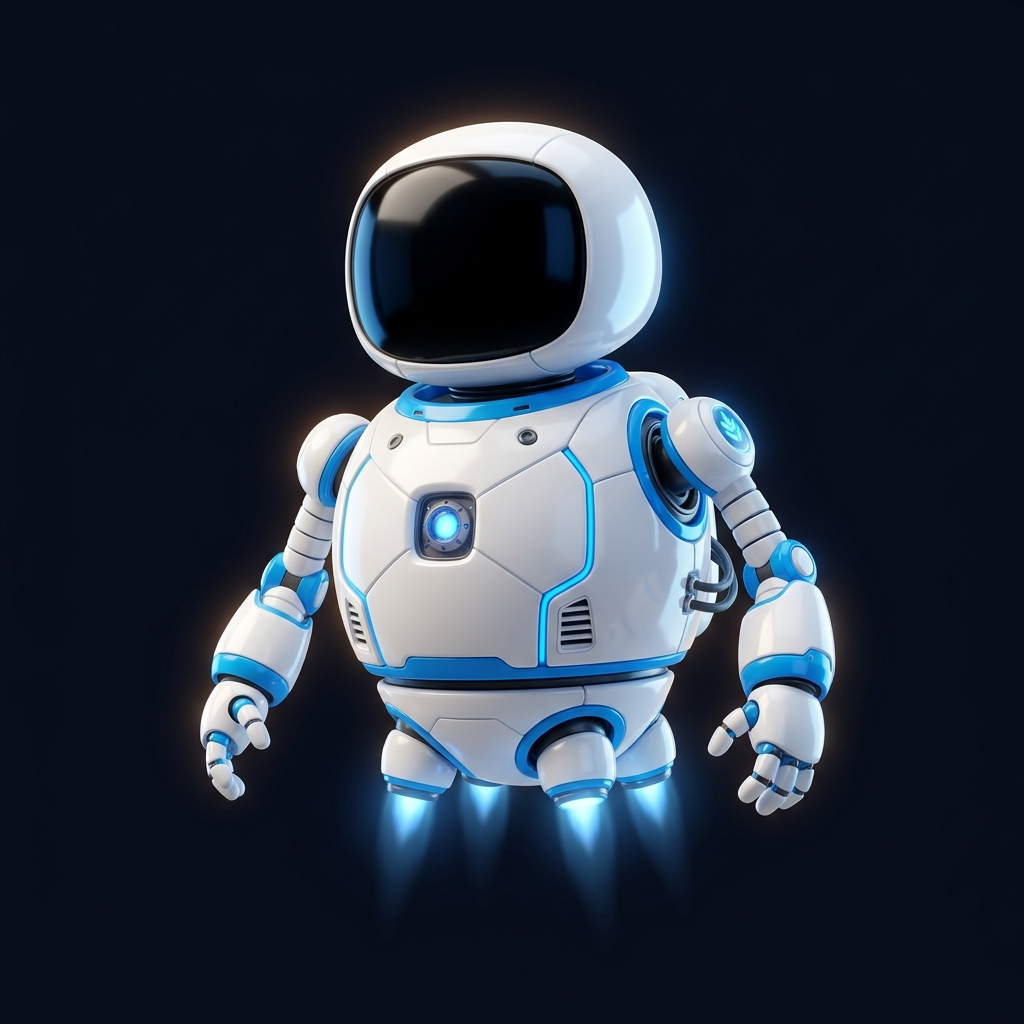
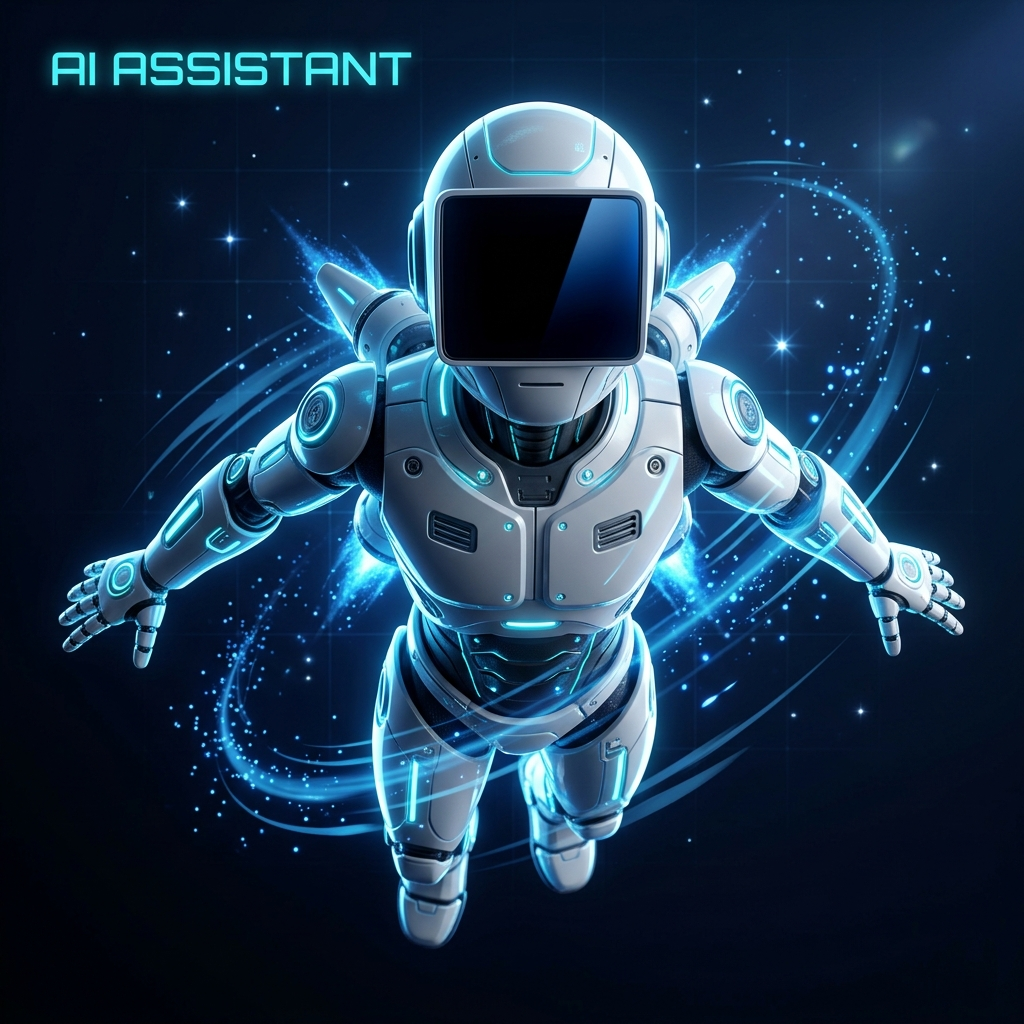
commit

diff --git a/src/components/AIProcessingScreen.jsx b/src/components/AIProcessingScreen.jsx
@@ -396,13 +396,9 @@ export default function AIProcessingScreen({ file }) {
         {/* ── RIGHT: AI Animation ── */}
         <motion.div initial={{ opacity: 0, x: 30 }} animate={{ opacity: 1, x: 0 }} transition={{ delay: 0.3 }}
           style={{
-            background: 'rgba(255,255,255,0.025)', border: '1px solid rgba(255,255,255,0.07)',
-            borderRadius: 16, padding: 20, backdropFilter: 'blur(20px)',
-            display: 'flex', flexDirection: 'column'
+            display: 'flex', flexDirection: 'column', justifyContent: 'center'
           }}>
-          <p style={{ fontSize: '0.7rem', fontWeight: 700, letterSpacing: '0.12em', color: 'rgba(56,189,248,0.8)',
-            marginBottom: 14, textTransform: 'uppercase' }}>AI Assistant</p>
-          <div style={{ flex: 1, position: 'relative', borderRadius: 12, overflow: 'hidden', minHeight: '320px', background: 'rgba(0,0,0,0.3)', display: 'flex', alignItems: 'center', justifyContent: 'center' }}>
+          <div style={{ flex: 1, position: 'relative', minHeight: '320px', display: 'flex', alignItems: 'center', justifyContent: 'center' }}>
             <motion.div
               style={{
                 position: 'absolute', inset: 0,
@@ -429,26 +425,26 @@ export default function AIProcessingScreen({ file }) {
               
               {/* Face Processing Overlay */}
               <div style={{
-                position: 'absolute', top: '33%', left: '50%', transform: 'translate(-50%, -50%)',
-                display: 'flex', flexDirection: 'column', alignItems: 'center', gap: '6px',
-                pointerEvents: 'none'
+                position: 'absolute', top: '26%', left: '50%', transform: 'translate(-50%, -50%)',
+                display: 'flex', alignItems: 'center', gap: '5px',
+                pointerEvents: 'none', height: '28px'
               }}>
-                <div style={{ display: 'flex', gap: '3px', alignItems: 'center', height: '14px' }}>
-                  {[...Array(6)].map((_, i) => (
+                {[...Array(7)].map((_, i) => {
+                  const symIdx = i <= 3 ? i : 6 - i;
+                  const minH = 8 + symIdx * 3;
+                  const maxH = 14 + symIdx * 5;
+                  return (
                     <motion.div key={i}
-                      style={{ width: 3, borderRadius: 2, background: '#38bdf8', boxShadow: '0 0 6px #38bdf8' }}
-                      animate={{ height: [4, 14, 4] }}
-                      transition={{ duration: 0.8, repeat: Infinity, delay: i * 0.1, ease: 'easeInOut' }}
+                      style={{ 
+                        width: 4, borderRadius: 2, 
+                        background: '#22d3ee', 
+                        boxShadow: '0 0 10px #06b6d4' 
+                      }}
+                      animate={{ height: [minH, maxH, minH] }}
+                      transition={{ duration: 0.6 + symIdx * 0.15, repeat: Infinity, delay: i * 0.08, ease: 'easeInOut' }}
                     />
-                  ))}
-                </div>
-                <motion.span 
-                  animate={{ opacity: [0.5, 1, 0.5] }}
-                  transition={{ duration: 1.5, repeat: Infinity }}
-                  style={{ fontSize: '0.5rem', fontWeight: 800, color: '#38bdf8', letterSpacing: '0.15em', textShadow: '0 0 5px #38bdf8' }}
-                >
-                  ANALYZING
-                </motion.span>
+                  );
+                })}
               </div>
             </motion.div>
           </div>